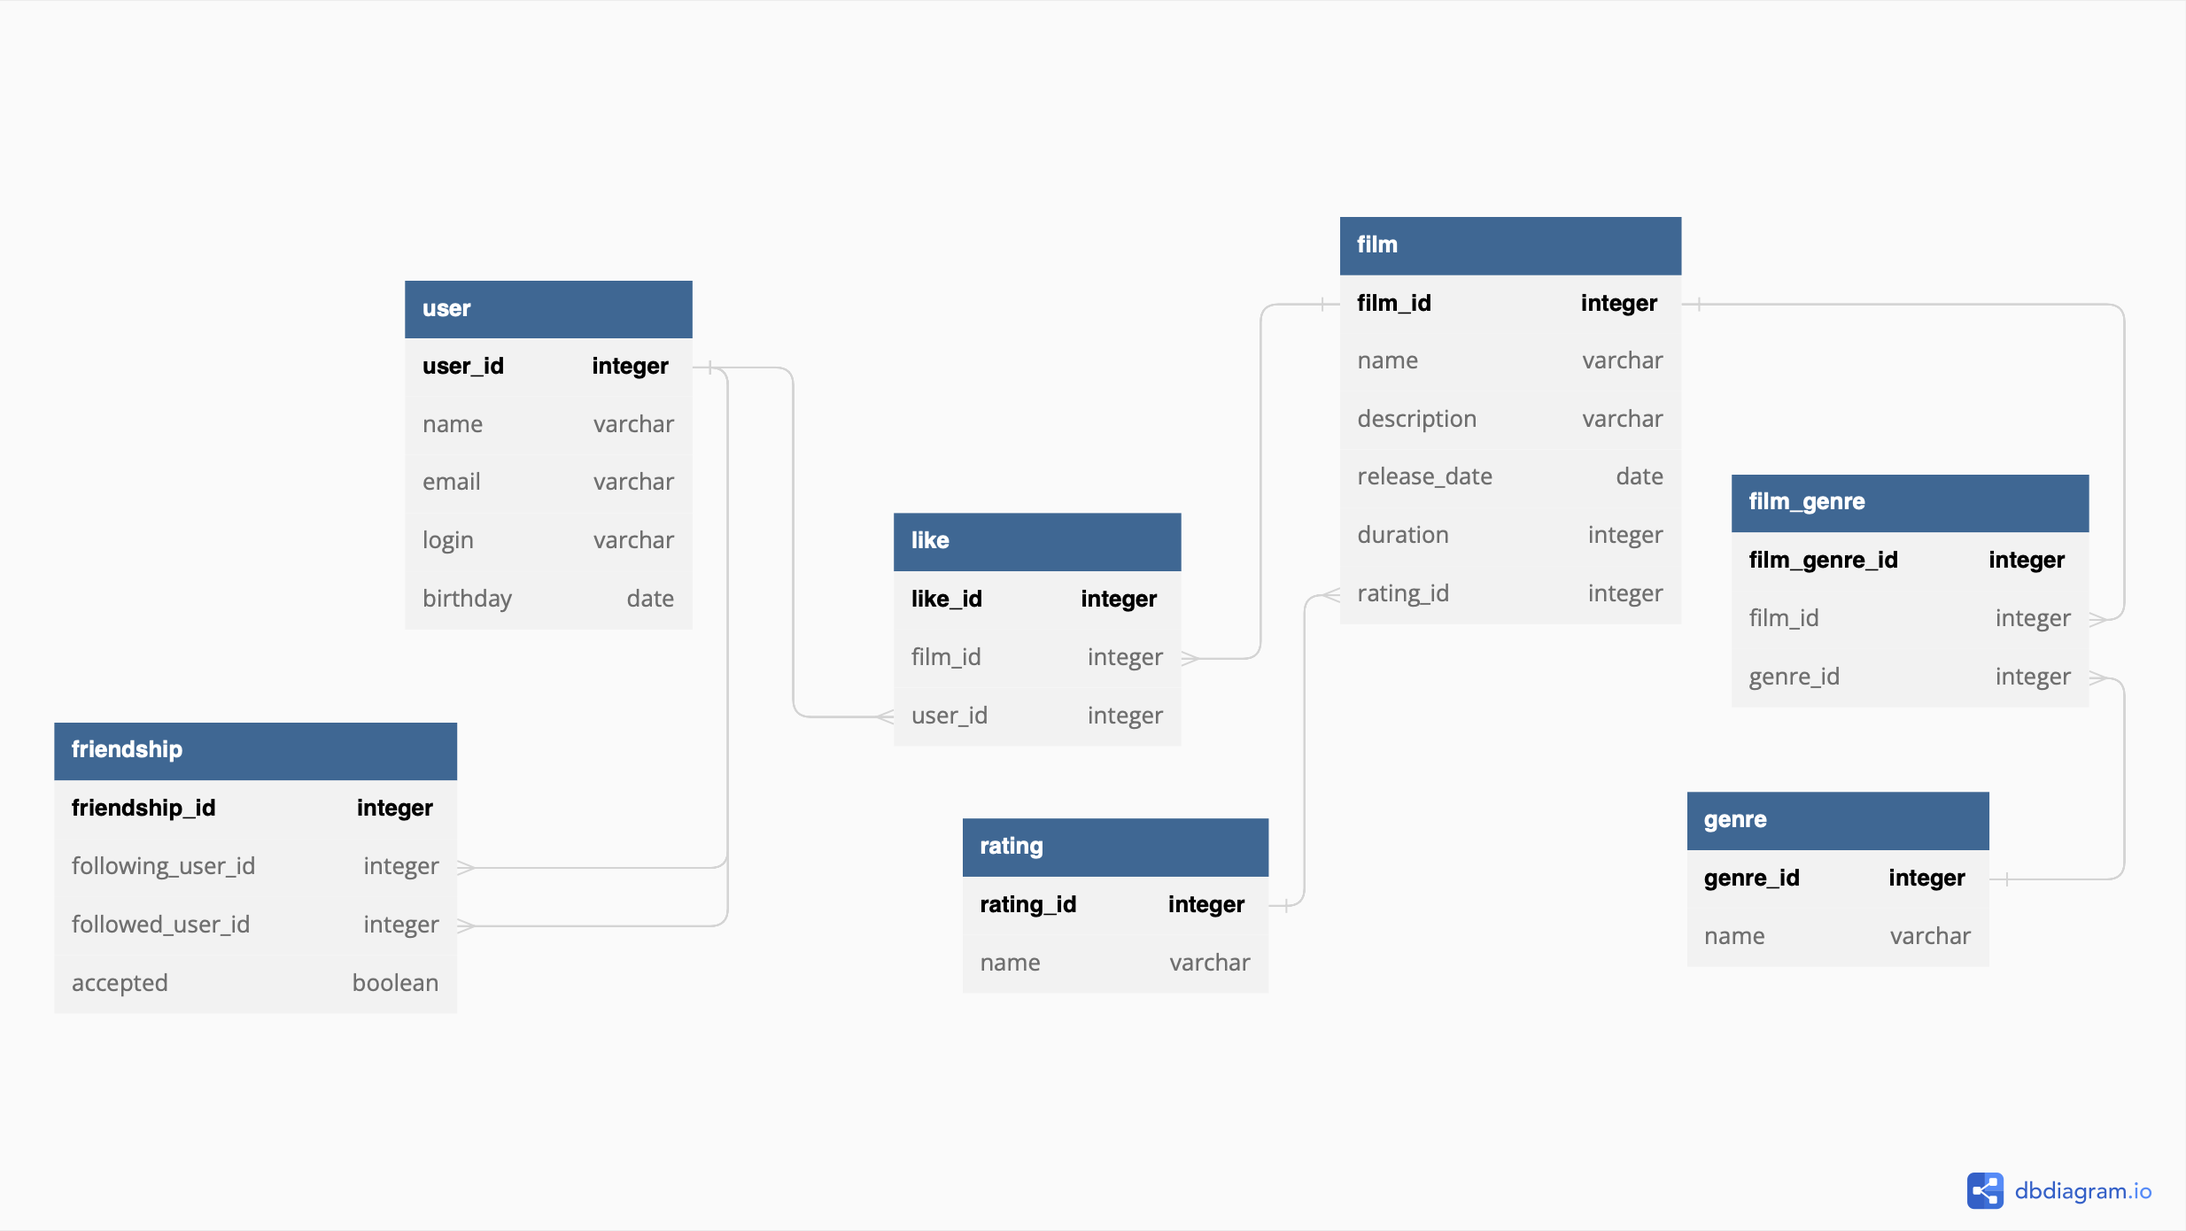
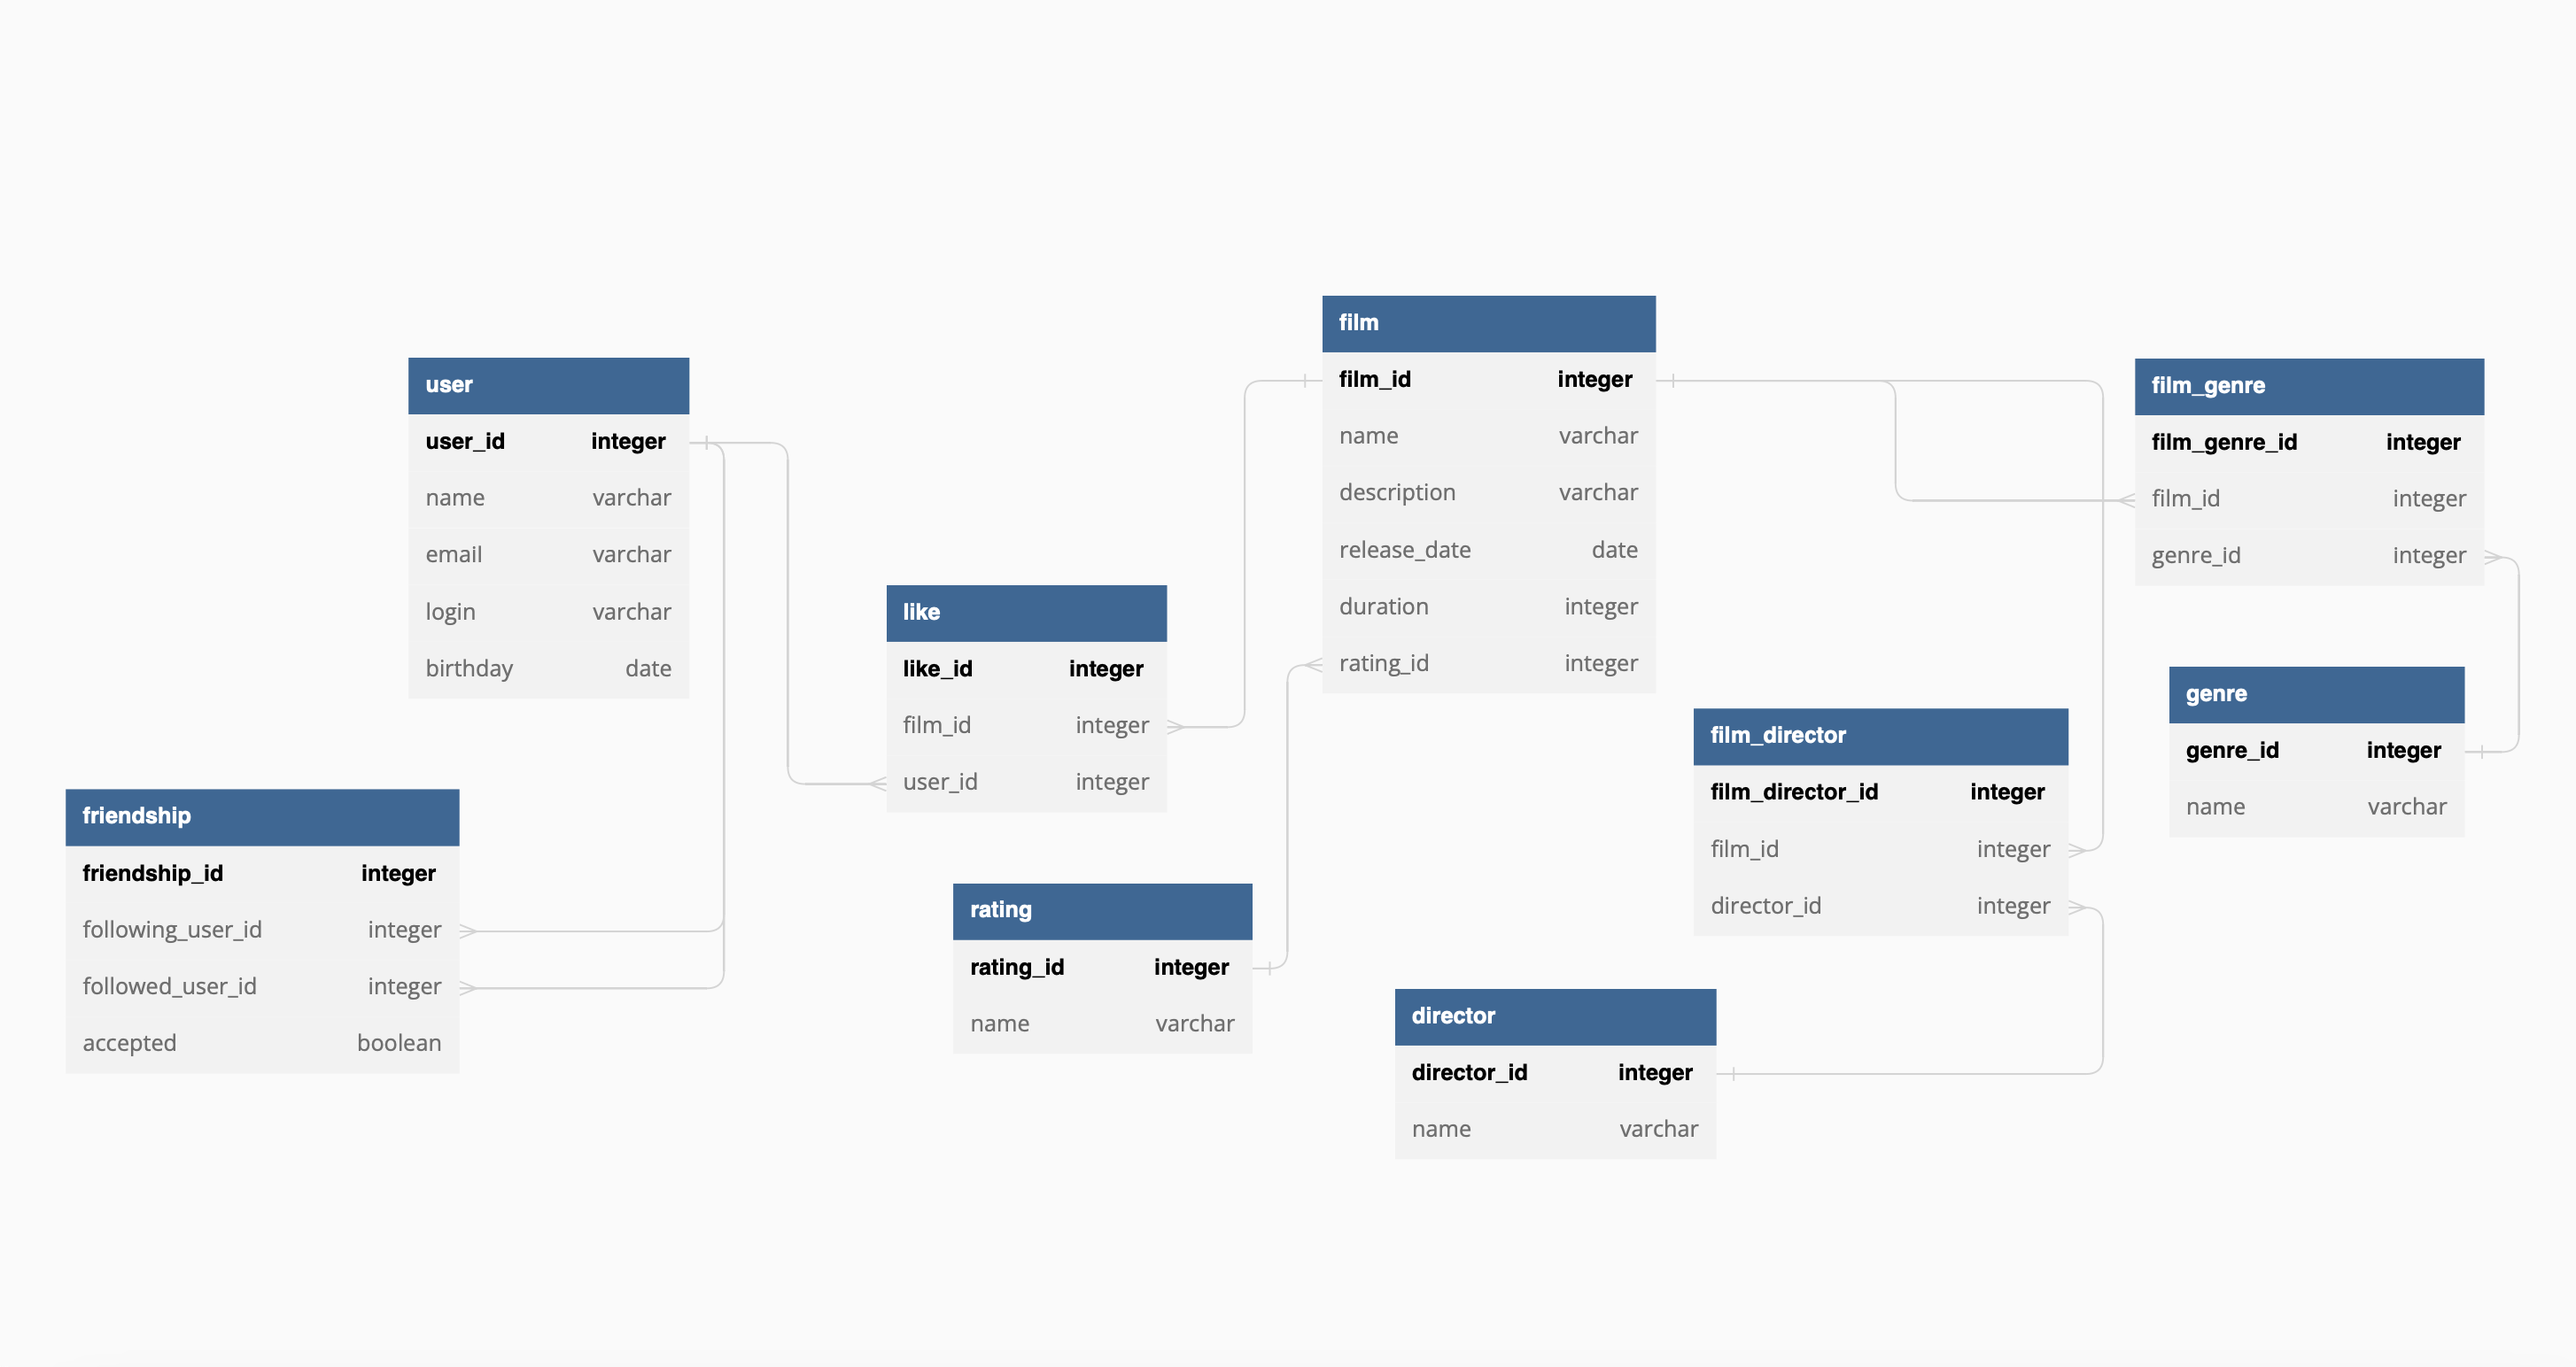
feat: добавлен режиссёр

diff --git a/src/main/java/ru/yandex/practicum/filmorate/storage/film/FilmDbStorage.java b/src/main/java/ru/yandex/practicum/filmorate/storage/film/FilmDbStorage.java
@@ -12,6 +12,7 @@ import org.springframework.jdbc.support.rowset.SqlRowSet;
 import org.springframework.stereotype.Component;
 import ru.yandex.practicum.filmorate.exception.AlreadyFriendsException;
 import ru.yandex.practicum.filmorate.exception.FilmNotFoundException;
+import ru.yandex.practicum.filmorate.model.Director;
 import ru.yandex.practicum.filmorate.model.Film;
 import ru.yandex.practicum.filmorate.model.Genre;
 import ru.yandex.practicum.filmorate.model.Rating;
@@ -50,6 +51,9 @@ public class FilmDbStorage implements FilmStorage {
         if (film.getGenres() != null) {
             addGenresToFilm(id, film.getGenres().stream().map(Genre::getId).collect(Collectors.toList()));
         }
+        if (film.getDirectors() != null) {
+            addDirectorsToFilm(id, film.getDirectors().stream().map(Director::getId).collect(Collectors.toList()));
+        }
         film.setId(id);
         return film;
     }
@@ -74,7 +78,14 @@ public class FilmDbStorage implements FilmStorage {
             Collection<Genre> genres = getGenresByFilmId(film.getId());
             solveGenresAdd(film.getId(), genres, film.getGenres());
         }
+        Collection<Director> directors = getDirectorsByFilmId(film.getId());
+        if (film.getDirectors() != null) {
+            solveDirectorsAdd(film.getId(), directors, film.getDirectors());
+        } else {
+            removeDirectorsFromFilm(film.getId(), directors.stream().map(Director::getId).collect(Collectors.toList()));
+        }
         film.setGenres(getGenresByFilmId(film.getId()));
+        film.setDirectors(getDirectorsByFilmId(film.getId()));
         return film;
     }
 
@@ -91,6 +102,7 @@ public class FilmDbStorage implements FilmStorage {
                 "JOIN rating r ON f.rating_id = r.rating_id";
         Collection<Film> films = jdbcTemplate.query(sqlQuery, this::mapRowToFilm);
         setGenresToFilms(films);
+        setDirectorsToFilms(films);
         return films;
     }
 
@@ -114,6 +126,7 @@ public class FilmDbStorage implements FilmStorage {
         }
         if (film != null) {
             film.setGenres(getGenresByFilmId(film.getId()));
+            film.setDirectors(getDirectorsByFilmId(film.getId()));
         }
         return film;
     }
@@ -128,6 +141,34 @@ public class FilmDbStorage implements FilmStorage {
                     "VALUES(?, ?)";
             jdbcTemplate.update(sqlQuery, filmId, userId);
         }
+    }
+
+    @Override
+    public Collection<Film> getFilmsByDirectorId(int directorId, String sortBy) {
+        String sqlQuery = "SELECT f.film_id, " +
+                "f.name film_name, " +
+                "f.description, " +
+                "f.release_date, " +
+                "f.duration, " +
+                "f.rating_id, " +
+                "r.name rating_name, " +
+                "(SELECT COUNT(*) FROM likes l WHERE l.film_id = f.film_id) likes " +
+                "FROM film_director fd " +
+                "JOIN film f ON fd.film_id = f.film_id " +
+                "JOIN rating r ON f.rating_id = r.rating_id " +
+                "WHERE fd.director_id = ? ";
+        if (sortBy.equals("year")) {
+            sqlQuery += "" +
+                    "ORDER BY f.release_date";
+        } else if (sortBy.equals("likes")) {
+            sqlQuery += "ORDER BY likes DESC";
+        }
+
+        Collection<Film> films = jdbcTemplate.query(sqlQuery, this::mapRowToFilm,
+                directorId);
+        setGenresToFilms(films);
+        setDirectorsToFilms(films);
+        return films;
     }
 
     private SqlRowSet findLike(int filmId, int userId) {
@@ -167,6 +208,7 @@ public class FilmDbStorage implements FilmStorage {
                 "LIMIT ?";
         Collection<Film> films = jdbcTemplate.query(sqlQuery, this::mapRowToFilm, count);
         setGenresToFilms(films);
+        setDirectorsToFilms(films);
         return films;
     }
 
@@ -234,7 +276,72 @@ public class FilmDbStorage implements FilmStorage {
                 jdbcTemplate.update(sqlQuery, filmId, genreId);
             }
         }
+    }
 
+    private void solveDirectorsAdd(int filmId, Collection<Director> oldDirectors, Collection<Director> newDirectors) {
+        Set<Integer> oldDirectorsIds = oldDirectors.stream().map(Director::getId).collect(Collectors.toSet());
+        Set<Integer> newDirectorsIds = newDirectors.stream().map(Director::getId).collect(Collectors.toSet());
+        List<Integer> directorsToAdd = newDirectorsIds.stream().filter(id -> !oldDirectorsIds.contains(id)).collect(Collectors.toList());
+        List<Integer> directorsToDel = oldDirectorsIds.stream().filter(id -> !newDirectorsIds.contains(id)).collect(Collectors.toList());
+        addDirectorsToFilm(filmId, directorsToAdd);
+        removeDirectorsFromFilm(filmId, directorsToDel);
+    }
+
+    private void removeDirectorsFromFilm(int filmId, List<Integer> directorsToDel) {
+        if (directorsToDel.size() > 0) {
+            SqlParameterSource parameters = new MapSqlParameterSource()
+                    .addValue("film_id", filmId)
+                    .addValue("director_ids", directorsToDel);
+            String sqlQuery = "DELETE FROM film_director " +
+                    "WHERE film_id = :film_id " +
+                    "AND director_id IN (:director_ids)";
+            namedJdbcTemplate.update(sqlQuery, parameters);
+        }
+    }
+
+    private void addDirectorsToFilm(int filmId, List<Integer> directorsToAdd) {
+        if (directorsToAdd.size() > 0) {
+            String sqlQuery = "INSERT INTO film_director(film_id, director_id)" +
+                    "VALUES(?, ?)";
+            for (Integer directorId : directorsToAdd) {
+                jdbcTemplate.update(sqlQuery, filmId, directorId);
+            }
+        }
+    }
+
+    private void setDirectorsToFilms(Collection<Film> films) {
+        Map<Integer, Film> filmsMap = films.stream().collect(Collectors.toMap(Film::getId, Function.identity()));
+        SqlParameterSource parameters = new MapSqlParameterSource()
+                .addValue("films",
+                        filmsMap.keySet());
+        String sqlQuery = "SELECT f.film_id film_id, d.director_id director_id, d.name name " +
+                "FROM director d " +
+                "JOIN film_director f ON f.director_id=d.director_id " +
+                "WHERE f.film_id in (:films)";
+        SqlRowSet rowSet = namedJdbcTemplate.queryForRowSet(sqlQuery, parameters);
+        Map<Integer, Collection<Director>> filmDirectors = new HashMap<>();
+        while (rowSet.next()) {
+            Director director = Director.builder().id(rowSet.getInt("director_id"))
+                    .name(rowSet.getString("name"))
+                    .build();
+            int filmId = rowSet.getInt("film_id");
+            Collection<Director> directors = filmDirectors.getOrDefault(filmId, new HashSet<>());
+            directors.add(director);
+            filmDirectors.put(filmId, directors);
+        }
+        films.forEach(film -> film.setDirectors(filmDirectors.getOrDefault(film.getId(), new HashSet<>())));
+    }
+
+    private Collection<Director> getDirectorsByFilmId(int filmId) {
+        String sqlQuery = "SELECT director_id, " +
+                "name " +
+                "FROM director " +
+                "WHERE director_id IN (SELECT director_id " +
+                "FROM film_director " +
+                "WHERE film_id = ?)";
+        return jdbcTemplate.query(sqlQuery, ((rs, rowNum) -> Director.builder().id(rs.getInt("director_id"))
+                .name(rs.getString("name"))
+                .build()), filmId);
     }
 
     private Film mapRowToFilm(ResultSet resultSet, int rowNum) throws SQLException {

diff --git a/src/main/java/ru/yandex/practicum/filmorate/service/FilmService.java b/src/main/java/ru/yandex/practicum/filmorate/service/FilmService.java
@@ -6,6 +6,7 @@ import org.springframework.beans.factory.annotation.Qualifier;
 import org.springframework.stereotype.Service;
 import ru.yandex.practicum.filmorate.exception.FilmBadReleaseDateException;
 import ru.yandex.practicum.filmorate.model.Film;
+import ru.yandex.practicum.filmorate.storage.director.DirectorDao;
 import ru.yandex.practicum.filmorate.storage.film.FilmStorage;
 import ru.yandex.practicum.filmorate.storage.user.UserStorage;
 
@@ -17,12 +18,15 @@ import java.util.Collection;
 public class FilmService {
     private final FilmStorage filmStorage;
     private final UserStorage userStorage;
+    private final DirectorDao directorDao;
     private final LocalDate minFilmReleaseDate = LocalDate.of(1895, 12, 28);
 
     @Autowired
-    public FilmService(@Qualifier("FilmDbStorage") FilmStorage filmStorage, @Qualifier("UserDbStorage") UserStorage userStorage) {
+    public FilmService(@Qualifier("FilmDbStorage") FilmStorage filmStorage, @Qualifier("UserDbStorage") UserStorage userStorage,
+                       DirectorDao directorDao) {
         this.filmStorage = filmStorage;
         this.userStorage = userStorage;
+        this.directorDao = directorDao;
     }
 
     public void addLike(int filmId, int userId) {
@@ -33,6 +37,11 @@ public class FilmService {
     public void deleteLike(int filmId, int userId) {
         userStorage.getUserById(userId);
         filmStorage.deleteLike(filmId, userId);
+    }
+
+    public Collection<Film> getFilmsByDirectorId(int directorId, String sortBy) {
+        directorDao.getDirectorById(directorId);
+        return filmStorage.getFilmsByDirectorId(directorId, sortBy);
     }
 
     public Collection<Film> getPopularFilms(int count) {

diff --git a/src/main/java/ru/yandex/practicum/filmorate/controller/ErrorHandler.java b/src/main/java/ru/yandex/practicum/filmorate/controller/ErrorHandler.java
@@ -9,6 +9,7 @@ import org.springframework.web.bind.annotation.ResponseStatus;
 import org.springframework.web.bind.annotation.RestControllerAdvice;
 import ru.yandex.practicum.filmorate.exception.AlreadyFriendsException;
 import ru.yandex.practicum.filmorate.exception.AlreadyLikedException;
+import ru.yandex.practicum.filmorate.exception.DirectorNotFoundException;
 import ru.yandex.practicum.filmorate.exception.FilmBadReleaseDateException;
 import ru.yandex.practicum.filmorate.exception.FilmNotFoundException;
 import ru.yandex.practicum.filmorate.exception.FriendshipAcceptionException;
@@ -23,7 +24,7 @@ import ru.yandex.practicum.filmorate.model.ErrorResponse;
 public class ErrorHandler {
 
     @ExceptionHandler({FilmNotFoundException.class, UserNotFoundException.class,
-            GenreNotFoundException.class, RatingNotFoundException.class})
+            GenreNotFoundException.class, RatingNotFoundException.class, DirectorNotFoundException.class})
     @ResponseStatus(HttpStatus.NOT_FOUND)
     public ErrorResponse handleObjectNotFound(final RuntimeException e) {
         log.info(e.getMessage());
@@ -36,6 +37,7 @@ public class ErrorHandler {
     @ResponseStatus(HttpStatus.NOT_FOUND)
     public ErrorResponse handleFriendshipError(final RuntimeException e) {
         log.info(e.getMessage());
+        e.printStackTrace();
         return new ErrorResponse("Ошибка добавления", e.getMessage());
     }
 

diff --git a/src/main/java/ru/yandex/practicum/filmorate/controller/FilmController.java b/src/main/java/ru/yandex/practicum/filmorate/controller/FilmController.java
@@ -60,4 +60,9 @@ public class FilmController {
     public Collection<Film> getFriendsList(@RequestParam(defaultValue = "10") int count) {
         return filmService.getPopularFilms(count);
     }
+
+    @GetMapping("/director/{directorId}")
+    public Collection<Film> getFilmsByDirector(@PathVariable int directorId, @RequestParam(defaultValue = "year") String sortBy) {
+        return filmService.getFilmsByDirectorId(directorId, sortBy);
+    }
 }

diff --git a/src/test/java/ru/yandex/practicum/filmorate/controller/FilmControllerTests.java b/src/test/java/ru/yandex/practicum/filmorate/controller/FilmControllerTests.java
@@ -24,7 +24,7 @@ public class FilmControllerTests {
     void makeFilmController() {
         FilmStorage filmStorage = new InMemoryFilmStorage();
         UserStorage userStorage = new InMemoryUserStorage();
-        filmController = new FilmController(new FilmService(filmStorage, userStorage));
+        filmController = new FilmController(new FilmService(filmStorage, userStorage, null));
     }
 
 

diff --git a/src/main/java/ru/yandex/practicum/filmorate/service/UserService.java b/src/main/java/ru/yandex/practicum/filmorate/service/UserService.java
@@ -46,6 +46,8 @@ public class UserService {
     }
 
     public void addFriend(int userId, int friendId) {
+        userStorage.getUserById(userId);
+        userStorage.getUserById(friendId);
         userStorage.addFriend(userId, friendId);
         log.info("Создан запрос дружбы между пользователями {} и {}", userId, friendId);
     }

diff --git a/src/main/java/ru/yandex/practicum/filmorate/storage/film/InMemoryFilmStorage.java b/src/main/java/ru/yandex/practicum/filmorate/storage/film/InMemoryFilmStorage.java
@@ -71,4 +71,9 @@ public class InMemoryFilmStorage implements FilmStorage {
                 .limit(count)
                 .collect(Collectors.toList());
     }
+
+    @Override
+    public Collection<Film> getFilmsByDirectorId(int directorId, String sortBy) {
+        return null;
+    }
 }

diff --git a/src/main/java/ru/yandex/practicum/filmorate/storage/film/FilmStorage.java b/src/main/java/ru/yandex/practicum/filmorate/storage/film/FilmStorage.java
@@ -18,4 +18,6 @@ public interface FilmStorage {
     void deleteLike(int filmId, int userId);
 
     Collection<Film> getPopularFilms(int count);
+
+    Collection<Film> getFilmsByDirectorId(int directorId, String sortBy);
 }

diff --git a/src/main/java/ru/yandex/practicum/filmorate/model/Film.java b/src/main/java/ru/yandex/practicum/filmorate/model/Film.java
@@ -31,6 +31,7 @@ public class Film {
     int duration;
     Rating mpa;
     Collection<Genre> genres;
+    Collection<Director> directors;
     @JsonIgnore
     Set<Integer> likes;
 
